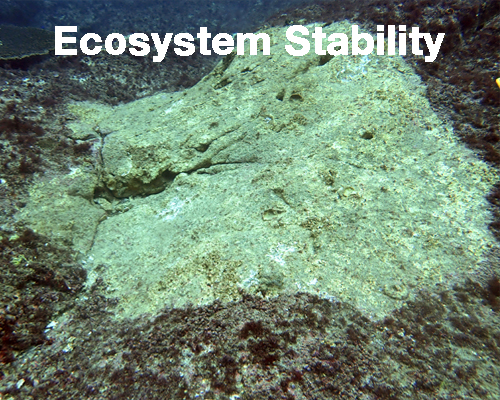
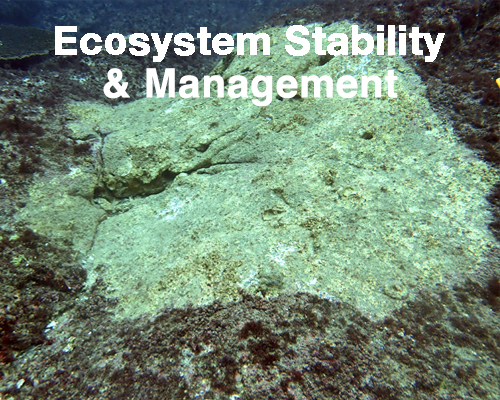
Research Updates

Changed region(s): [[0.21, 0.15, 0.81, 0.27]]

diff --git a/public_html/research-item-2.html b/public_html/research-item-2.html
@@ -123,12 +123,15 @@
 										</div>
 										<div class="col-md-12">
 											<h4>Research Overview</h4>
-											<p>Global warming is continually heating the world’s oceans. This is due to the oceans absorbing around 90% of the heat trapped by excess greenhouse gases since the mid-century. As well as raising the baseline temperature of the oceans, this excess heat can also increase the frequency, severity and duration of marine heatwaves. Marine heatwaves are when oceans reach extreme temperatures for at least five consecutive days. Globally, marine heatwaves have become 34 percent more frequent, 17 percent longer, and the number of heatwave days per year was more than 50% greater between 1987 and 2016 than in 1925-1954.<br /><br />
-												
-											Some of the largest marine heatwave events have struck at the same time as the El Niño-Southern Oscillation. The El Niño-Southern Oscillation system, with its positive El Niño and negative La Niña phases, is a natural ocean cycle that contributes to some parts of the ocean having their temperature pushed up. It is not certain how future global warming will influence El Niño-Southern Oscillation, but it has been indicated that they may get more severe. What is certain, however, is that marine heatwaves are much worse when they strike at the same time. This is because the starting temperature is higher, and so the absolute temperature reached by the marine heatwave is also higher, and therefore more impactful. <br /><br />
+											<p>Global warming is continually heating the world’s oceans. This is due to the oceans absorbing around 90% of the heat trapped by excess greenhouse gases since the mid-century. As well as raising the baseline temperature of the oceans, this excess heat can also increase the frequency, severity and duration of marine heatwaves. Marine heatwaves are when oceans reach extreme temperatures for at least five consecutive days. Globally, marine heatwaves have become 34 percent more frequent, 17 percent longer, and the number of heatwave days per year was more than 50% greater between 1987 and 2016 than in 1925-1954. Some of the largest marine heatwave events have struck at the same time as the El Niño-Southern Oscillation. The El Niño-Southern Oscillation system, with its positive El Niño and negative La Niña phases, is a natural ocean cycle that contributes to some parts of the ocean having their temperature pushed up. It is not certain how future global warming will influence El Niño-Southern Oscillation, but it has been indicated that they may get more severe. What is certain, however, is that marine heatwaves are much worse when they strike at the same time. This is because the starting temperature is higher, and so the absolute temperature reached by the marine heatwave is also higher, and therefore more impactful. <br /><br />
 											
-											Globally, not all regions have demonstrated the same trends in increasing marine heatwaves. By deriving global time series and regional trends based on a combination of satellite-based, remotely sensed SSTs and in situ-based seawater temperatures, it is possible to highlight those areas where heatwaves have increased most, allowing us to establish whether those regions will be particularly sensitive. An area might be sensitive because it is: harbouring high levels of biodiversity, possessing large numbers of species that are already near their thermal limit, or already being exposed to addition stressors such as overfishing. Globally, a number of ‘hotspots’ exist that would be particularly impacted by marine heatwaves. As well as places like southern Australia, the Caribbean Sea and the coastline bounding the mid-eastern Pacific; the waters around the coasts of southern and western Japan also showed a marked increase in the marine heatwave occurrences. All of these areas have been shown to be regions of high biodiversity. Similarly, the north-west Pacific in general is exposed to a range of non-climate human-induced stressors, which means that marine organisms around Japan may be sensitive to marine heatwaves. 
-</p>
+											Globally, not all regions have demonstrated the same trends in increasing marine heatwaves. By deriving global time series and regional trends based on a combination of satellite-based, remotely sensed SSTs and in situ-based seawater temperatures, it is possible to highlight those areas where heatwaves have increased most, allowing us to establish whether those regions will be particularly sensitive. An area might be sensitive because it is: harbouring high levels of biodiversity, possessing large numbers of species that are already near their thermal limit, or already being exposed to addition stressors such as overfishing. Globally, a number of ‘hotspots’ exist that would be particularly impacted by marine heatwaves. As well as places like southern Australia, the Caribbean Sea and the coastline bounding the mid-eastern Pacific; the waters around the coasts of southern and western Japan also showed a marked increase in the marine heatwave occurrences. All of these areas have been shown to be regions of high biodiversity. Similarly, the north-west Pacific in general is exposed to a range of non-climate human-induced stressors, which means that marine organisms around Japan may be sensitive to marine heatwaves. <br /><br />
+												
+											The increasing number of marine heatwaves has been shown to cause large-scale damage to the health of foundation species, including coral reefs, kelp forests and seagrass meadows. For example, a particularly extreme marine heatwave struck the west coast of Australia in 2011, and caused widespread loss of kelp and seagrass meadows. An estimated 900 square kilometres of seagrass (36% of the total coverage) was lost, and some of the kelp species became regionally extinct for hundreds of kilometres. Similarly, consecutive marine heatwaves across the Great Barrier Reef in 2016 and 2017 caused more than 80% of the individual coral reefs to experience severe coral bleaching, with the loss of many branching coral species. This is concerning, because foundation species are hugely important since they support thousands of other species which are dependent on the habitat, food and shelter that they provide. When the foundation of an ecosystem is lost, then that ecosystem will cease to exist. <br /><br />
+											
+											Most of these heatwave-induced losses of kelp in Australia were directly due to the temperature itself being stressful, however, their recovery was then hindered because tropical herbivorous fish (including rabbitfish) followed those warmer conditions and began to heavily graze on any remaining kelp. Five years after the heatwave, these kelp forests still have not shown any signs of recovery. Instead, those temperate kelp species are disappearing and starting to be replaced by subtropical and tropical reef communities. This phenomenon is termed tropicalisation. A similar tropicalisation is occurring in Japan due to gradually warming waters. Within both west Kyushu and south Shikoku, tropical fish (rabbitfish, parrotfish and sea chubs) have become permanent residents and now dominate the temperate reef fish communities, causing an overgrazing of the local kelp species (termed isoyake) resulting in their loss.<br /><br />
+											
+											These types of shifts in the community, where the dominant species is being replaced (e.g. loss of kelp forests), are becoming increasingly more common as the oceans warm with climate change. The main concern is that such changes were expected to occur over the long-term, whereas instead marine heatwaves can rapidly drive these changes in the ecosystem and also hinder any subsequent recovery following the event. Consequently, the changes in ecosystems that we project with climate change, may occur sooner than expected. The loss of foundation species due to marine heatwaves is also harmful for humanity. This is because as well as supporting other marine life, foundation species and their associated biodiversity also supply humans with a number of ecological goods and services. For example, many marine ecosystems support commercial and recreational fisheries, contribute to carbon storage and nutrient cycling, offer venues for tourism and recreation, or are culturally or scientifically significant. All of these services have substantial benefits to society, and their reduction (or loss) will have deleterious effects for the hundreds of millions of people that rely on coastal marine ecosystems. The impacts of marine heatwaves and climate change can only be reduced by rapid and meaningful reductions in the emissions of greenhouse gases. It then remains a major challenge for marine conservation and management approaches to establish a pragmatic approach for maintaining the integrity of marine ecosystems to both long-term climate change and marine heatwaves.</p>
 											<p></p>
 											<h4>Research Approaches</h4>
 											<p> Our marine heatwaves research is performed using: <br /><br />

diff --git a/public_html/research-item-1.html b/public_html/research-item-1.html
@@ -123,7 +123,13 @@
 										</div>
 										<div class="col-md-12">
 											<h4>Research Overview</h4>
-											<p>Ocean acidification and global warming are considered among the greatest threats to marine ecosystems, yet, our understanding of the biological and ecological consequences of these prevalent abiotic drivers on marine organisms is limited. As such, in recent years there has been an emergence of studies investigating the relationship between temperature and ocean acidification, and specifically how these stressors will interact to impact marine biota. This is because ocean acidification and warming act in a mechanistically different manner, and yet are both influencing future populations at the same time. Recent meta-analyses across ecological systems have demonstrated that the impact of multiple stressors may lead to effects that are less (antagonistic) or greater (synergistic) than expected from the individual stressors. Such unpredictable effects are of particular concern because the response of an organism may also be modified further with competitive or trophic interactions, reducing our ability to predict whether future marine communities will resemble those of today.</p>
+											<p>Ocean acidification and global warming are considered among the greatest threats to marine ecosystems, yet, our understanding of the biological and ecological consequences of these prevalent abiotic drivers on marine organisms is limited. As such, in recent years there has been an emergence of studies investigating the relationship between temperature and ocean acidification, and specifically how these stressors will interact to impact marine biota. This is because ocean acidification and warming act in a mechanistically different manner, and yet are both influencing future populations at the same time. Recent meta-analyses across ecological systems have demonstrated that the impact of multiple stressors may lead to effects that are less (antagonistic) or greater (synergistic) than expected from the individual stressors. Such unpredictable effects are of particular concern because the response of an organism may also be modified further with competitive or trophic interactions, reducing our ability to predict whether future marine communities will resemble those of today. <br /><br />
+											
+											Despite acting in a mechanistically different manner, both ocean acidification and warming stand to alter behavioural and physiological traits, including the development and reproduction of marine organisms, with the potential to scale up to population- and ecosystem-level impacts. The modern distribution of a species is shaped by a species’ physiological limits and biotic interactions with co-existing species, both of which will play a key role in their response to future climate change. Marine organisms are typically considered to respond to a changing environment in one of three (non-exclusive) ways: spatially, temporally, and phenotypically. Spatial responses include biogeographic range shifts such that organism responses are expected to find refuge through migration. This is (predominantly) related to the tracking of isotherms in order to maintain their thermal niches. It is thought that such responses will be less associated with ocean acidification because spatial gradients in <em>p</em>CO<sub>2</sub> are less common or structured in comparison to the predicted rate of (temporal) change. Temporal responses highlight changes in phenological timing, such as reproduction and time of peak abundance. It is unlikely, however, that migration alone will be sufficient, forcing many species to adapt in order to survive. The third key response is through alterations in their physiology (or behaviour), while maintaining the same spatial and temporal structure that allows the organisms to persist. The relative importance of these mechanisms (i.e. spatial, temporal, and phenotypic responses) in tolerating environmental change will largely depend on the life-history characteristics of the organism, the rate and magnitude of the environmental change, the availability of suitable habitats (assuming a range shift) and the timescale over which climate change occurs. <br /><br />
+												
+											Assessing the sensitivity of marine organisms to ocean acidification and warming requires that we first understand what traits are likely to be affected, and whether these particular traits can be generalised across different life-history characteristics and species/taxa. Physiological studies on extant species have suggested a number of convergent hypotheses to explain differences in the sensitivity of marine organisms to ocean acidification and warming. Although there are still species-specific responses, there is a suggestion of predictable trait-based variation in sensitivity that can be attributed to taxonomic groups or life stages. For example, calcifying organisms are generally considered to be more sensitive to ocean acidification than non-calcifying organisms. However, within that grouping, corals, echinoderms and molluscs are considered to be more sensitive to future (predicted) levels of <em>p</em>CO<sub>2</sub> compared to (for instance) crustaceans.<br /><br />
+												
+											The target for much of climate change research is to establish explicit predictions regarding the population- and community-level effects of future climate change. Work associated with global warming in particular, suggests that the majority of local population extinctions are not entirely associated with physiological responses to elevated temperature, instead primarily due to alterations in species interactions. Yet, the majority of climate change experiments to date have been relatively short-term, single species experiments and are therefore not easily extrapolated up to natural ecosystems. In order to understand both longer-term, and community- and ecosystem-level responses requires multiple approaches. These include: (1) <em>in vivo</em> aquarium mesocosm experiments using multiple species or communities; (2) field observations using natural analogues, including both environmental gradients (e.g. CO<sub>2</sub> venting or upwelling sites) and space-for-time manipulations (e.g. latitudinal temperature changes), as well as <em>in situ</em> mesocosm experiments; (3) long-term experiments which consider population demographics and examine the potential for acclimation and adaptation; (4) ecosystem modelling that can integrate the eco-physiological parameters of the individual with broad- scale biogeochemical simulations of environmental conditions and resource availability, and finally (5) combinations of the above. </p>
 											<p></p>
 											<h4>Research Approaches</h4>
 											<p>Our ocean acidification and ocean warming research is performed using: <br /><br />

diff --git a/public_html/index.html b/public_html/index.html
@@ -433,59 +433,52 @@
 								<li>How the stability of marine ecosystems will be altered by global climate and environmental change, and how this will influence ecosystem management</li>
 							</ul>
 						<div class="row">						
-							<div class="col-md-3 top-line">
+							<div class="col-md-4 top-line">
 								<h4>Acidification<br />&amp;Warming</h4>
 								<p class="highlight">Experimental <br /> Fieldwork <br /> Desk-based</p>
 								<p>Our ocean acidification and warming research is performed using: <br /><br />Field and manipulative experiments in Natural CO<sub>2</sub> seeps in Japan, Italy and New Zealand, and latitiudal gradients in temperature <br /><br />Experimentally with CO<sub>2</sub>- and temperature controlled aquarium mesocosms <br /><br />Synthesis of literature using meta-analytical and other statistical techniques</p> 
 							</div>
-							<div class="col-md-3 top-line">
+							<div class="col-md-4 top-line">
 								<h4>Marine<br />heatwaves</h4>
 								<p class="highlight">Experimental <br />  <br /> Desk-based</p>
 								<p>Our marine heatwaves research is performed using: <br /><br />Modelling to assess trends and patterns in marine heatwaves<br /><br />Experimentally with aquarium mesocosms.</p>
 							</div>
-							<div class="col-md-3 top-line">
-								<h4>Ecosystem<br />Stability</h4>
+							<div class="col-md-4 top-line">
+								<h4>Stability<br /> &amp;Management</h4>
 								<p class="highlight">Experimental <br /> Fieldwork <br /> Desk-based</p>
-								<p>Our ecosystem stability research is performed using: <br /><br />Field and manipulative experiments in Natural CO<sub>2</sub> seeps in Japan <br /><br /> Assessments of ecosystem responses to both anthropogenic (ocean acidification) and natural (typhoons) disturbances, including their resistance, resilience and associated feedback mechanisms <br /><br /> </p>
-							</div>
-							<div class="col-md-3 top-line">
-								<h4>Ecosystem<br />Management</h4>
-								<p class="highlight"> <br /> Fieldwork <br /> Desk-based</p>
-								<p>Our ecosystem management research is performed using: <br /><br /> Field experiments in Natural CO<sub>2</sub> seeps in Japan <br /><br />Placing our other research into a management and policy context </p> 
+								<p>Our ecosystem stability and ecosystem management research is performed using: <br /><br />Field and manipulative experiments in Natural CO<sub>2</sub> seeps in Japan <br /><br /> Assessments of ecosystem responses to both anthropogenic (ocean acidification) and natural (typhoons) disturbances, including their resistance, resilience and associated feedback mechanisms <br /><br /> </p>
 							</div>
 						</div>
+						<div class="row">
+							<p> <br /> </p>
+						</div>	
 						<div class="row">
 							<div class="gallery background-e" data-overlay=".gallery-overlay">
 								<div class="container-fluid">
 									<div class="row">
 										<div class="grid">						
-											<div class="item col-md-3 col-sm-4 col-xs-6">
+											<div class="item col-md-4 col-sm-5 col-xs-8">
 												<a href="#!research-item-1.html">
 												<img alt="Research 1" src="images/research/research-oaw.jpg" />
 												</a>
 											</div>
-											<div class="item col-md-3 col-sm-4 col-xs-6">
+											<div class="item col-md-4 col-sm-5 col-xs-8">
 												<a href="#!research-item-2.html">
 												<img alt="Research 2" src="images/research/research-mhw.jpg" />
 												</a>
 											</div>
-											<div class="item col-md-3 col-sm-4 col-xs-6">
+											<div class="item col-md-4 col-sm-5 col-xs-8">
 												<a href="#!research-item-3.html">
 												<img alt="Research 3" src="images/research/research-stability.jpg" />
 												</a>
-											</div>									
-											<div class="item col-md-3 col-sm-4 col-xs-6">
-												<a href="#!research-item-4.html">
-												<img alt="Research 4" src="images/research/research-management.jpg" />
-												</a>
-											</div>									
+											</div>														
 										</div>
 									</div>
 								</div>
 							</div>
 						</div>	
 						<div class="row">
-							<p class="lead">Click on the thumbnails for more detailed information on our research</p>
+							<p class="lead">Click on the thumbnails for more detailed information on our research <br /></p>
 						</div>	
 					</div>
 				</div>
@@ -733,7 +726,8 @@
 						<p> </p>
 						<p> </p>
 						<!-- <p class="lead">We are always looking for students interested in marine biology and ecology (PhD, Honours & MSc students). All projects are possible.</p>"-->
-						<p class="lead">It will not be possible to accept students during the Academic year 2021-2022 or 2022-2023, as the PI Dr Ben Harvey will be on sabbatical outside of Japan</p>
+						<p class="lead">PI Dr Ben Harvey will be on sabbatical outside of Japan during the Academic year 2021-2022 and 2022-2023 <br /><br />
+							Students can be accepted from the April 2023 onwards </p>
 						<!-- <p class="lead">Internships are possible through the <a href="http://www.global.tsukuba.ac.jp/summer/shimoda-international-internship-marine-biology"> Shimoda International Internship Program in Marine Biology</a></p>-->
 						<p> </p>
 						<p> </p>

diff --git a/public_html/research-item-3.html b/public_html/research-item-3.html
@@ -113,17 +113,27 @@
 						<div class="view">
 							<div class="item-content">
 								<div class="container">
-									<h3>Ecosystem Stability  <span class="highlight">Research</span></h3>
+									<h3>Ecosystem Stability and Management <span class="highlight">Research</span></h3>
 									<div class="row">
 										<div class="col-md-6">
-											<img class="fluid-width" alt="Stability 1" src="images/placeholders/960x540-0.jpg" />
+											<img class="fluid-width" alt="Stability 1" src="images/research/research-stability_1.jpg" />
 										</div>
 										<div class="col-md-6">
-											<img class="fluid-width" alt="Stability 2" src="images/placeholders/960x540-0.jpg" />
+											<img class="fluid-width" alt="Stability 2" src="images/research/research-stability_2.jpg" />
 										</div>
 										<div class="col-md-12">
 											<h4>Research Overview</h4>
-											<p>To be completed soon</p>
+											<p>Ecosystems are structured by physical processes and interactions between co-existing species. Human activities are fundamentally altering the biota and physico-chemical conditions of the ocean. While these changes are often gradual, they can reach tipping points, resulting in dramatic and abrupt regime shifts that change the structure and function of biological communities. Regime shifts are predominantly the result of a environmental threshold being exceeded, which alters the internal dynamics of the ecosystem. These internal dynamics include competition and trophic interactions, thereby regulating and maintaining ecosystem stability. Regime shifts can cause large losses of ecological and economic resources, and yet due to their non-linear nature are often difficult to predict. <br /><br />	
+												
+											Ecosystem stability can be divided into two key areas: resistance and resilience. Ecosystem resistance measures how strong a disturbance must be before a community’s structure changes. A species could contribute to community resistance (for example) by being highly tolerant of a particular stressor (such as possessing a high degree of metabolic flexibility and physiological tolerance).
+											
+											Ecosystem resilience is a measure of how well an ecosystem can tolerate disturbance without collapsing into a different state that is controlled by a different set of processes. When considering future climate change and ecosystem management, a tangible approach is to mitigate the future degradation of ecosystems by promoting the resistance and resilience of intact desirable ecosystems. For regime shifts that have already occurred, it becomes necessary to reverse an ecological shift by returning the environmental conditions to prior conditions, or through active intervention and restoration. </p>
+											<p></p>
+											<h4>Research Approaches</h4>
+											<p> Our ecosystem stability research is performed using:
+												<li>Field and manipulative experiments in Natural CO<sub>2</sub> seeps in Japan </li>
+												<li>Assessments of ecosystem responses to both anthropogenic (ocean acidification) and natural (typhoons) disturbances, including their resistance, resilience and associated feedback mechanisms </li>
+											</p>
 											<p></p>
 										</div>
 									</div>
